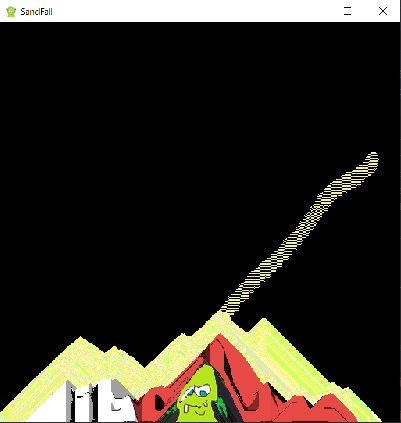
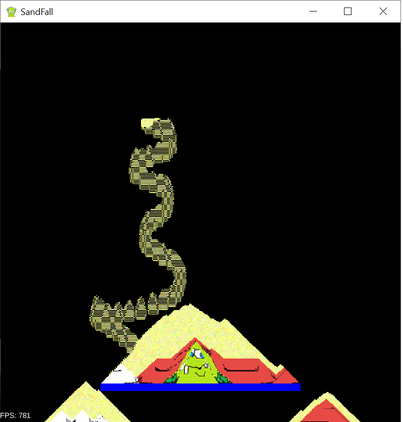
updated readme

diff --git a/core/src/main/java/com/monstrous/sandfall/SandFall.java b/core/src/main/java/com/monstrous/sandfall/SandFall.java
@@ -85,6 +85,7 @@ public class SandFall extends InputAdapter implements ApplicationListener {
     public void render() {
         // process keyboard input
         handleKeys();
+        handleMouse();
 
         // call compute shader to iterate one step
         if(started && (!paused || step)) {
@@ -134,6 +135,13 @@ public class SandFall extends InputAdapter implements ApplicationListener {
             started = true;
     }
 
+    private void handleMouse(){
+        if(Gdx.input.isButtonPressed(Input.Buttons.LEFT)){
+            started = true;
+            addBrushStroke(Gdx.input.getX(), Gdx.input.getY());
+        }
+    }
+
     @Override
     public void pause() {
     }
@@ -153,20 +161,6 @@ public class SandFall extends InputAdapter implements ApplicationListener {
     }
 
 
-
-    @Override
-    public boolean touchDown(int screenX, int screenY, int pointer, int button) {
-        started = true;
-        addBrushStroke(screenX, screenY);
-        return true;
-    }
-
-    @Override
-    public boolean touchDragged(int screenX, int screenY, int pointer) {
-        addBrushStroke(screenX, screenY);
-        return true;
-    }
-
     private void createTextures() {
 
         textures = new Texture[2];
@@ -178,22 +172,26 @@ public class SandFall extends InputAdapter implements ApplicationListener {
         }
     }
 
+    // fill the input texture with the start screen contents
     private void initState() {
         Texture tex = textures[readTexIndex];
         Pixmap pixmap = new Pixmap(tex.getWidth(), tex.getHeight(), Pixmap.Format.RGBA8888);
         pixmap.setColor(Color.BLACK);
         pixmap.fill();
-        tex.draw(pixmap, 0, 0);
+        tex.draw(pixmap, 0, 0); // clear the texture to black
         pixmap.dispose();
 
+        // add a logo
         pixmap = new Pixmap(Gdx.files.internal("libgdx.png"));
         tex.draw(pixmap, (MAX_NUM_CELLS_X - pixmap.getWidth())/2, 100);
         pixmap.dispose();
 
+        // add a logo
         pixmap = new Pixmap(Gdx.files.internal("monstrous.png"));
         tex.draw(pixmap, (MAX_NUM_CELLS_X - pixmap.getWidth())/2, 200);
         pixmap.dispose();
 
+        // add a blue platform
         pixmap = new Pixmap(tex.getWidth()/2, 10, Pixmap.Format.RGBA8888);
         pixmap.setColor(Color.BLUE);
         pixmap.fill();

diff --git a/README.md b/README.md
@@ -4,13 +4,15 @@ Demonstrator of a falling sand effect using compute shaders.
 
 Requires GLES 3.1.
 
+![screenshot](screenshot.png)
+
 Controls:
 - mouse drag to add sand
 - SPACE to freeze animation
 - S to single-step when frozen
 - R to reset
 
-![screenshot](screenshot.png)
+
 
 
 How does it work?
@@ -26,6 +28,8 @@ For example: if a pixel is empty (black) and the pixel above is not (another col
 output pixel will take the colour from the above pixel to simulate the colour dropping down.
 Meanwhile, the shader for the pixel above detects it has a colour and the cell below is empty,
 so it will output an empty colour.
+
+Pixels that are pure blue are consider immovable.
 
 
 
